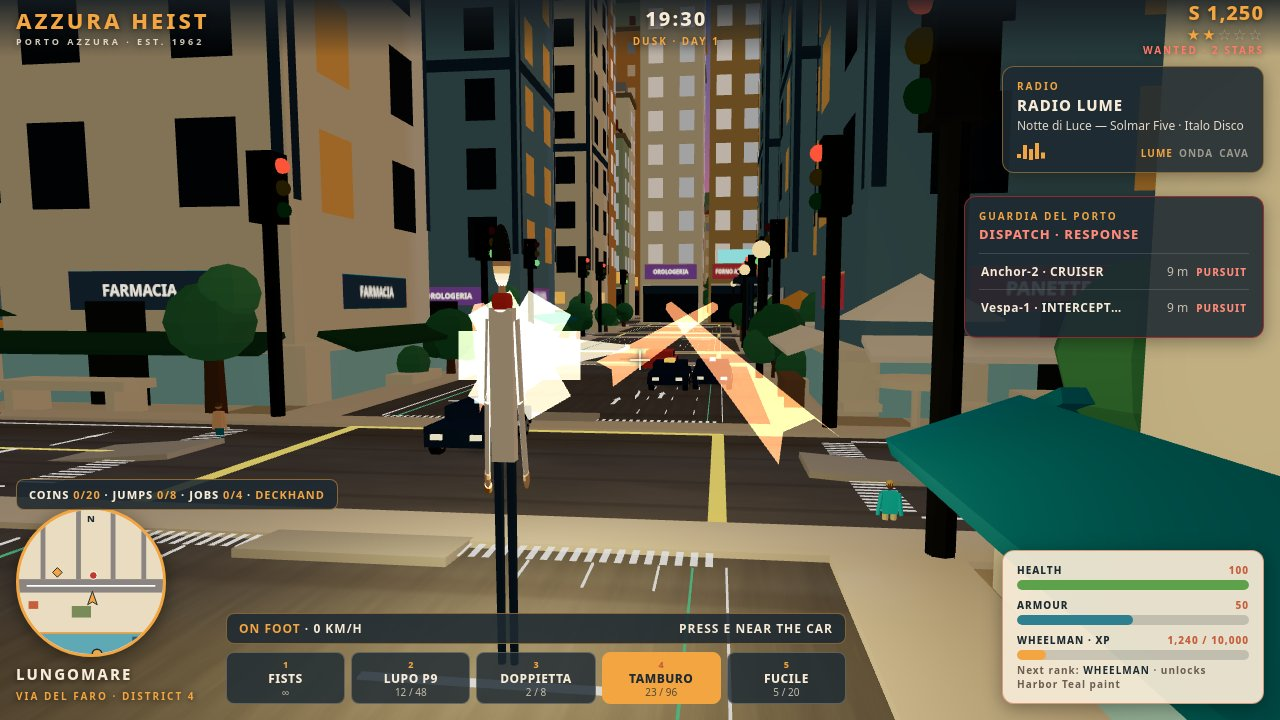
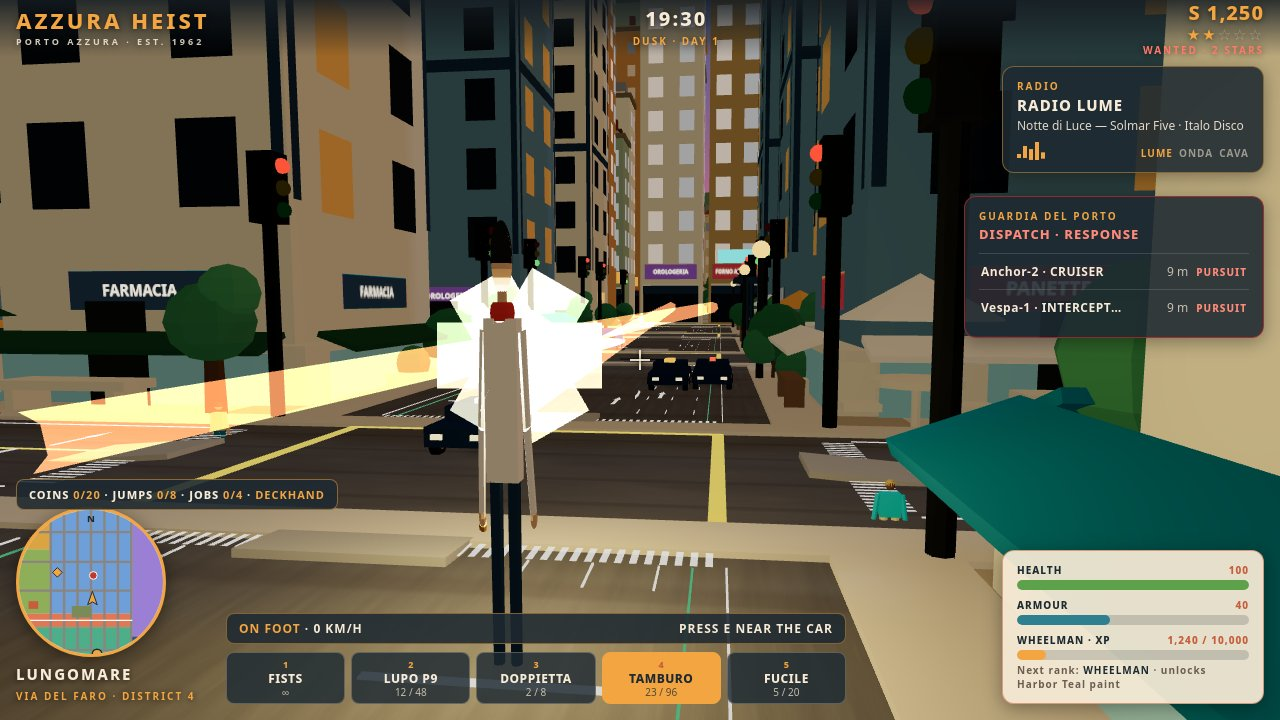
Round-9 part N: realistic body proportions

diff --git a/game/src/people.js b/game/src/people.js
@@ -1,8 +1,13 @@
 // AZZURA — characters.
-// Stylized fashion-illustration proportions: slightly elongated, small heads,
-// confident posture, strong silhouettes. Flat color blocks + one accent color.
-// Limbs are built as pivoted groups (shoulder / hip / elbow) so walk, run,
-// drive, aim, fight and idle animations can drive them later.
+// Part N (23 Nov 2026, Xian 21:09): REALISTIC human proportions.
+// The old build was fashion-illustration (legs 52%H, chest 0.15H
+// wide, head H/8.6) — a stick next to the buildings. Now: legs
+// 48%H, chest 0.22H wide, head H/7.5, thicker limbs, longer arms.
+// Total height UNCHANGED (Elio still 0.58u = 1.73 m at PED_SCALE
+// 0.30); only the shape INSIDE the height changed. Flat color
+// blocks + one accent color. Limbs are built as pivoted groups
+// (shoulder / hip / elbow) so walk, run, drive, aim, fight and
+// idle animations can drive them later.
 import * as THREE from '../vendor/three.module.min.js';
 import { mergedMesh, colored, xform, vertexColorMat } from './world.js';
 
@@ -46,10 +51,10 @@ export function makeFigure(spec) {
   const a = ARCHETYPES[spec.archetype || 'lean'];
   const H = a.h;
   const g = a.girth;
-  const legLen = H * 0.52;
-  const torsoH = H * 0.30;
-  const torsoW = 0.34 * g;
-  const headR = H * 0.058; // small head, fashion-illustration proportions
+  const legLen = H * 0.48; // real: hip height ~48% of stature
+  const torsoH = H * 0.32;
+  const torsoW = 0.48 * g; // real chest width ~0.22H (was 0.34g = 0.15H)
+  const headR = H * 0.067; // real head = H/7.5 (was H/8.6, too small)
   const skin = spec.skin || 0xe8b88a;
   const root = new THREE.Group();
   root.name = 'figure';
@@ -59,9 +64,9 @@ export function makeFigure(spec) {
   for (const side of [-1, 1]) {
     const leg = new THREE.Group();
     leg.position.set(side * torsoW * 0.28, hipY, 0);
-    leg.add(part(new THREE.CylinderGeometry(0.075 * g, 0.06 * g, legLen, 8),
+    leg.add(part(new THREE.CylinderGeometry(0.10 * g, 0.085 * g, legLen, 8),
       spec.bottom || 0x2b2b2b, 0, -legLen / 2, 0));
-    leg.add(part(new THREE.BoxGeometry(0.11 * g, 0.07, 0.24),
+    leg.add(part(new THREE.BoxGeometry(0.13 * g, 0.07, 0.28),
       spec.shoes || 0x2b2b2b, 0, -legLen + 0.035, 0.06));
     root.add(leg);
   }
@@ -70,20 +75,20 @@ export function makeFigure(spec) {
   const torso = new THREE.Group();
   torso.position.set(0, hipY, 0);
   torso.rotation.x = a.stoop;
-  const chest = part(new THREE.BoxGeometry(torsoW, torsoH, 0.20 * g),
+  const chest = part(new THREE.BoxGeometry(torsoW, torsoH, 0.28 * g),
     spec.top || 0xf2f0ea, 0, torsoH / 2, 0);
   torso.add(chest);
   // Accent stripe / shirt front.
   torso.add(part(new THREE.BoxGeometry(torsoW * 0.4, torsoH * 0.82, 0.02),
-    spec.accent || 0xc93a6b, 0, torsoH / 2, 0.11 * g));
+    spec.accent || 0xc93a6b, 0, torsoH / 2, 0.15 * g));
   // Apron (farm crew / shopkeepers).
   if (spec.apron) {
     torso.add(part(new THREE.BoxGeometry(torsoW * 0.7, torsoH * 0.9, 0.03),
-      spec.apron, 0, torsoH / 2 - 0.02, 0.12 * g));
+      spec.apron, 0, torsoH / 2 - 0.02, 0.15 * g));
   }
   // Scarf (accent ring at the neck).
   if (spec.scarf) {
-    const scarf = part(new THREE.TorusGeometry(0.11 * g, 0.035, 8, 14), spec.scarf, 0, torsoH + 0.02, 0);
+    const scarf = part(new THREE.TorusGeometry(0.13 * g, 0.04, 8, 14), spec.scarf, 0, torsoH + 0.02, 0);
     scarf.rotation.x = Math.PI / 2;
     torso.add(scarf);
   }
@@ -96,15 +101,15 @@ export function makeFigure(spec) {
     const arm = new THREE.Group();
     arm.position.set(side * torsoW * 0.58, shoulderY, 0);
     arm.rotation.z = side * 0.14; // relaxed A-pose
-    const upper = part(new THREE.CylinderGeometry(0.055 * g, 0.05 * g, H * 0.16, 8),
-      spec.top || 0xf2f0ea, 0, -H * 0.08, 0);
+    const upper = part(new THREE.CylinderGeometry(0.065 * g, 0.058 * g, H * 0.19, 8),
+      spec.top || 0xf2f0ea, 0, -H * 0.095, 0);
     arm.add(upper);
     const elbow = new THREE.Group();
-    elbow.position.set(0, -H * 0.16, 0);
+    elbow.position.set(0, -H * 0.19, 0);
     elbow.rotation.x = -0.25;
-    elbow.add(part(new THREE.CylinderGeometry(0.048 * g, 0.042 * g, H * 0.15, 8),
-      spec.skinTop || spec.top || 0xf2f0ea, 0, -H * 0.075, 0));
-    elbow.add(part(new THREE.SphereGeometry(0.05 * g, 8, 8), skin, 0, -H * 0.16, 0));
+    elbow.add(part(new THREE.CylinderGeometry(0.058 * g, 0.052 * g, H * 0.18, 8),
+      spec.skinTop || spec.top || 0xf2f0ea, 0, -H * 0.09, 0));
+    elbow.add(part(new THREE.SphereGeometry(0.055 * g, 8, 8), skin, 0, -H * 0.19, 0));
     arm.add(elbow);
     root.add(arm);
     arms[side < 0 ? 'L' : 'R'] = { arm, elbow };
@@ -113,7 +118,7 @@ export function makeFigure(spec) {
   // ---- head (small) ----
   const head = new THREE.Group();
   head.position.set(0, shoulderY + headR * 1.5, 0);
-  head.add(part(new THREE.CylinderGeometry(0.045, 0.05, 0.08, 8), skin, 0, -headR * 0.4, 0));
+  head.add(part(new THREE.CylinderGeometry(0.055, 0.06, 0.08, 8), skin, 0, -headR * 0.4, 0));
   head.add(part(new THREE.SphereGeometry(headR, 14, 12), skin, 0, headR * 0.55, 0));
   // Hair: a flattened half-sphere cap.
   const hair = part(new THREE.SphereGeometry(headR * 1.06, 12, 8, 0, Math.PI * 2, 0, Math.PI * 0.55),
@@ -157,7 +162,7 @@ export function makeFigure(spec) {
 
   // ---- signature items (right hand unless noted) ----
   const R = arms.R.elbow;
-  const handY = -H * 0.16;
+  const handY = -H * 0.19;
   if (spec.item === 'compass') {
     R.add(part(new THREE.CylinderGeometry(0.05, 0.05, 0.02, 10), 0xe8a33d, 0, handY - 0.05, 0.02, { metalness: 0.4 }));
   } else if (spec.item === 'spoon') {
@@ -169,7 +174,7 @@ export function makeFigure(spec) {
     R.add(part(new THREE.CylinderGeometry(0.02, 0.02, H * 0.5, 8), 0x2b2b2b, 0, handY - H * 0.2, 0));
     R.add(part(new THREE.SphereGeometry(0.05, 8, 8), 0xe8a33d, 0, handY + 0.06, 0, { metalness: 0.5 }));
   } else if (spec.item === 'rope') {
-    const rope = part(new THREE.TorusGeometry(0.16 * g, 0.03, 8, 14), 0xc9a86a, 0, torsoH * 0.6, 0.1 * g);
+    const rope = part(new THREE.TorusGeometry(0.23 * g, 0.035, 8, 14), 0xc9a86a, 0, torsoH * 0.6, 0.1 * g);
     rope.rotation.x = Math.PI / 2.4;
     torso.add(rope);
   } else if (spec.item === 'rake') {
@@ -219,10 +224,10 @@ export function makeWalker(spec) {
   const a = ARCHETYPES[spec.archetype || 'lean'];
   const H = a.h;
   const g = a.girth;
-  const legLen = H * 0.52;
-  const torsoH = H * 0.30;
-  const torsoW = 0.34 * g;
-  const headR = H * 0.058;
+  const legLen = H * 0.48;
+  const torsoH = H * 0.32;
+  const torsoW = 0.48 * g;
+  const headR = H * 0.067;
   const skin = spec.skin || 0xe8b88a;
   const root = new THREE.Group();
   root.name = 'walker';
@@ -230,7 +235,7 @@ export function makeWalker(spec) {
   for (const side of [-1, 1]) {
     const leg = new THREE.Group();
     leg.position.set(side * torsoW * 0.28, hipY, 0);
-    leg.add(part(new THREE.CylinderGeometry(0.075 * g, 0.06 * g, legLen, 8),
+    leg.add(part(new THREE.CylinderGeometry(0.10 * g, 0.085 * g, legLen, 8),
       spec.bottom || 0x2b2b2b, 0, -legLen / 2, 0));
     root.add(leg);
   }
@@ -242,7 +247,7 @@ export function makeWalker(spec) {
   // is invisible to it. Same boxes/spheres, same colors, same
   // root-space positions as the three meshes it replaces.
   const torsoHead = [
-    colored(xform(new THREE.BoxGeometry(torsoW, torsoH, 0.20 * g), 0, hipY + torsoH / 2, 0),
+    colored(xform(new THREE.BoxGeometry(torsoW, torsoH, 0.28 * g), 0, hipY + torsoH / 2, 0),
       spec.top || 0xf2f0ea),
     colored(xform(new THREE.SphereGeometry(headR, 14, 12), 0, shoulderY + headR * 1.5 + headR * 0.55, 0),
       skin),
@@ -256,8 +261,8 @@ export function makeWalker(spec) {
     const arm = new THREE.Group();
     arm.position.set(side * torsoW * 0.58, shoulderY, 0);
     arm.rotation.z = side * 0.14;
-    arm.add(part(new THREE.CylinderGeometry(0.055 * g, 0.05 * g, H * 0.31, 8),
-      spec.top || 0xf2f0ea, 0, -H * 0.155, 0));
+    arm.add(part(new THREE.CylinderGeometry(0.065 * g, 0.058 * g, H * 0.37, 8),
+      spec.top || 0xf2f0ea, 0, -H * 0.185, 0));
     root.add(arm);
     arms[side < 0 ? 'L' : 'R'] = { arm };
   }

diff --git a/reports/partN-proportions.md b/reports/partN-proportions.md
@@ -1,0 +1,83 @@
+# Round-9 part N — realistic body proportions (Xian 21:09)
+
+Xian rejected 03-action part L: "karakter dan npc kenapa lonjong
+panjang begitu goblok.. benerin semua proporsi tubuh dengan bangunan
+sekitar". Diagnosis (measured from code, verified before changing):
+Elio's HEIGHT was already right (PED_SCALE 0.30 → 0.58u = 1.73 m;
+one floor FLOOR_H 1.0u = 3.0 m; Elio = 0.58x one floor, real 0.57x).
+What was wrong was the SHAPE inside that height: fashion-illustration
+construction in `people.js` — legs too long, torso too narrow, head
+too small — so the silhouette read as a stretched stick next to the
+buildings. This is NOT a scale problem: CAR_SCALE (0.33), PED_SCALE
+(0.30), FLOOR_H (1.0) and all world scales UNCHANGED. GAME change:
+only the body construction in `game/src/people.js` (makeFigure +
+makeWalker, shared by player, all NPCs, all walkers, mission figures).
+
+## Proportions old vs new (lean archetype, Elio, H = 1.92)
+
+| measure | old | new | real human |
+|---|---|---|---|
+| legs (hip height) | 0.52H | 0.48H | 0.48–0.50H |
+| torso height | 0.30H | 0.32H | ~0.30H |
+| chest width | 0.152H (0.34g) | 0.215H (0.48g) | ~0.24H |
+| chest depth | 0.090H (0.20g) | 0.125H (0.28g) | ~0.13H |
+| head diameter | H/8.6 (0.116H) | H/7.5 (0.134H) | H/7.5 |
+| thigh diameter | 0.067H | 0.090H | ~0.095H |
+| arm (shoulder→fingertip) | ~0.34H | ~0.40H | ~0.44H |
+| foot length | 0.125H | 0.146H | ~0.15H |
+| total height | 1.00H | ~0.99H | 1.00H |
+
+Derived: shoulder span 0.144u (was 0.102u) → height/shoulders 4.0:1
+(was 5.7:1; real ~3.8:1). Accent stripe / apron / scarf / rope torus
+z-positions moved out to the new chest face (0.15g); neck thickened
+(0.055); hand anchor moved to the new forearm end (-0.19H). Hats,
+glasses, headphones scale in headR units — automatic. No other file
+references legLen/torsoH/headR/torsoW (grep: only people.js), so walk
+animation (findLimbs/animateWalk, pivot-based), lineup nameplates
+(userData.height = H x PED_SCALE, unchanged) and board radius (2.6u)
+are unaffected.
+
+## Verification (probe `/tmp/probe-char-compare.mjs`, FOV 55, dusk)
+
+Elio on the east sidewalk (2.8, -12) facing the camera, Stella parked
+on the road beside him (0.3, -12), buildings both sides. Takes 1–3
+were rejected (take 1: tree + monorail slab hid Elio; take 2: traffic
+light pole hid Elio; take 3: same pole + giant waypoint diamond in
+frame — diamond now hidden in-probe only). Take 4 (final):
+- Elio height 56.1 px; one floor 97.3 px at the facade plane →
+  depth-corrected Elio/floor = **0.54x** (target 0.57–0.58; facade
+  plane x=4.5 is approximate).
+- Elio/car = 56.1 / 38.6 = **1.45x** (target 1.42x).
+- Shoulder span 14.1 px front-on → height/shoulders **4.0:1**
+  (old build would read 5.7:1).
+- 0 console errors, 0 page errors.
+- File: `reports/partN-char-vs-building.png` (JPEG q85, 136,788 B).
+- Honest weakness: Elio is small in the frame (56 px) — the fix is
+  measurable but hard to judge at that distance; the close-up proof
+  is the 03-action re-shoot below.
+
+## 03-action re-shoot (same `?shot=widefire` staging as part L)
+
+- File: `screenshots/03-action.jpg` (1280x720 JPEG q85, 150,900 B).
+- Elio big + central, firing (muzzle flash + tracers both ways),
+  2 police cars visible ahead + dispatch Anchor-2/Vespa-1 9 m,
+  ped on the right sidewalk, full HUD, dusk, colorful minimap
+  (part M) now visible in the HUD. 0 console errors.
+- Honest weaknesses (same as part L): the muzzle flash still partly
+  covers Elio's head/shoulders; pose is stiff (arms at sides, no
+  visible gun mesh — flash + tracer carry the shooting); the police
+  cars read as dark cars. The elongated-stick look is gone: the torso
+  reads visibly broader and the head is bigger.
+
+## Spot-checks (GAME change — proportions; driver unchanged)
+
+- M1: PASS human-like, 59 s (attempts=2, fails=1, maxStage=2).
+  Attempt 1: player got WASTED by police damage during the escape
+  drive (46 s) — boarding + driving worked; attempt 2 passed.
+  Boarding itself was never the failure. Driver auto-committed
+  `945116c`. M7 NOT re-run (PASS part K; proportions do not touch
+  mission logic).
+- Routes: **10/10 zones reachable, errors: 0** (`/tmp/routes.json`:
+  marina, oldtown, promenade, cbd, commercial, residential, hills,
+  lighthouse, countryside, quarry — all reachable out + back;
+  longest quarry 28 s round trip). Exit 0 = ALL ZONES REACHABLE.
